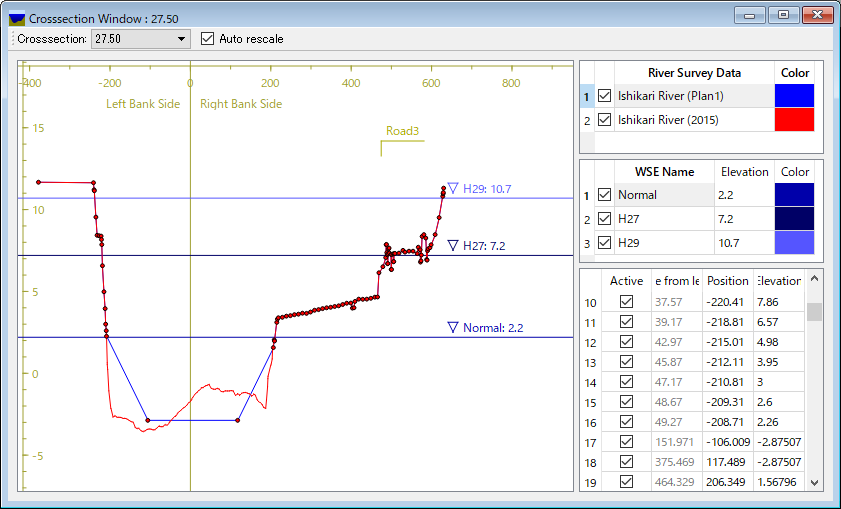
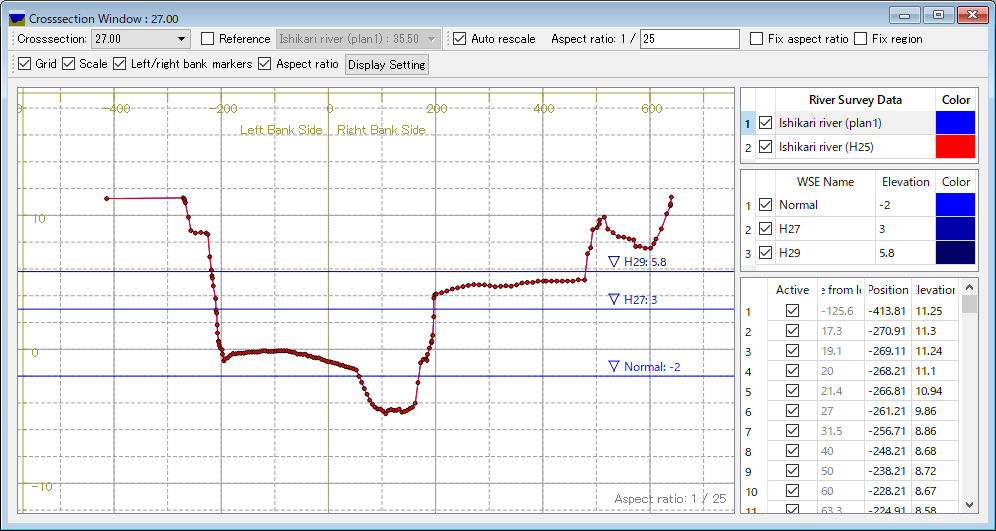
Xsec window description updated

diff --git a/source/04/04/02_riv_data.rst b/source/04/04/02_riv_data.rst
@@ -497,6 +497,51 @@ Window. The additional menu items are shown between [Import] and
      - [Delete] (D)
      - Deletes the selected elevation point.
 
+
+
+Toolbar functions
+~~~~~~~~~~~~~~~~~~~~
+
+:numref:`geo_river_data_xsec_window_toolbaritems_table` shows the toolbar items for
+River Cross-section Window.
+
+.. _geo_river_data_xsec_window_toolbaritems_table:
+
+.. list-table:: Toolbar functions for the River Cross-section Window
+   :header-rows: 1
+
+   * - Item
+     - Description
+   * - Crosssection
+     - Switches the cross-section to show
+   * - Reference
+     - Shows reference cross-section. You can switch the cross-section to show with combobox.
+   * - Auto rescale
+     - If it is checked, when user switches the cross-section to show, automatic rescale is executed, so that new cross-section is shown in the center.
+   * - Aspect ratio
+     - Current aspect ratio is shown. You can also edit the value to change setting.
+   * - Fix aspect ratio
+     - If it is checked, Ctrl + Middle-drag changes to zoom-in/zoom out without changing aspect ratio.
+   * - Fix retion
+     - If it is checked, Ctrl + Middle-drag and Ctrl + Left-drag operations are disabled.
+   * - Grid
+     - You can switch on/off background grid
+   * - Scale
+     - You can switch on/off scales shown at left edge and top edge.
+   * - Left/right bank markers
+     - You can switch on/off "Left Bank Side", "Right Bank Side" markers shown at top edge.
+   * - Aspect ratio
+     - You can switch on/off Aspect ratio shown at right bottom.
+   * - Display Setting
+     - Shows Display Setting dialog (see :numref:`image_xsec_window_setting_dialog`).
+
+.. _image_xsec_window_setting_dialog:
+
+.. figure:: images/xsec_window_setting_dialog.png
+   :width: 300pt
+
+   Cross-section Window Display Setting dialog
+
 [Activate] (A)
 ~~~~~~~~~~~~~~~
 
